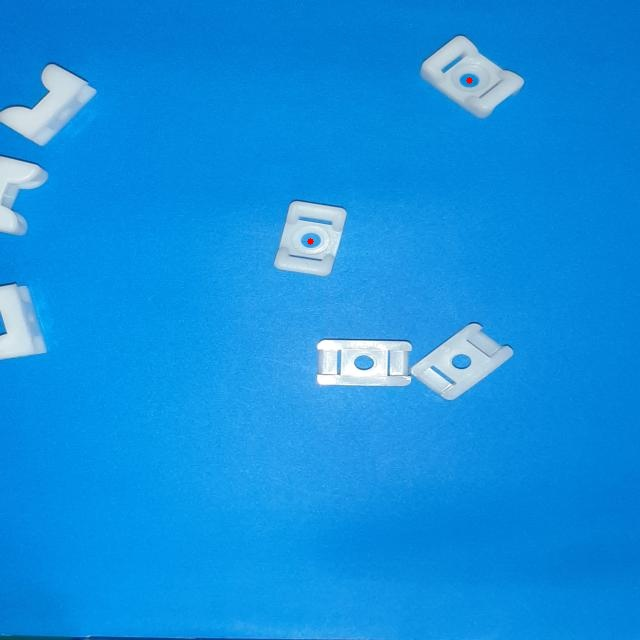
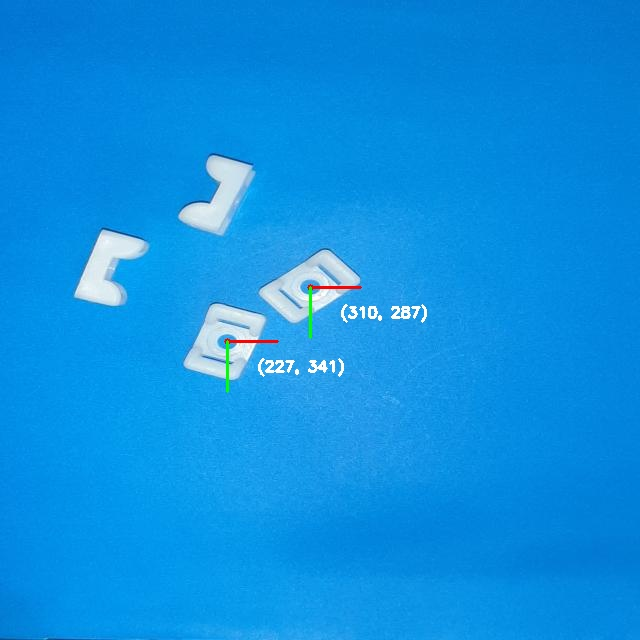
up

diff --git a/detectByYolov8/prediction.py b/detectByYolov8/prediction.py
@@ -4,7 +4,7 @@
 from ultralytics import YOLO
 import cv2
 
-link = r'E:\My_Code\NhanDienvat\detectByYolov8\dataset_specialItems\train\images\20230922_155418_jpg.rf.296522d801c93045bc8ae684fc4fb48f.jpg'
+link = r'E:\My_Code\NhanDienvat\detectByYolov8\dataset_specialItems\train\images\20230922_155058_jpg.rf.f9c8117af8571624c38fa89e5ba3b55c.jpg'
 
 image = cv2.imread(link)
 
@@ -16,7 +16,7 @@ model = YOLO('yolov8n-seg.pt')  # load an official model
 model = YOLO(r'E:\My_Code\NhanDienvat\runs\segment\train\weights\best.pt')  # load a custom model
 
 # Predict with the model
-results = model(r"E:\My_Code\NhanDienvat\detectByYolov8\dataset_specialItems\train\images\20230922_155418_jpg.rf.296522d801c93045bc8ae684fc4fb48f.jpg", save = True)  # predict on an image
+results = model(r"E:\My_Code\NhanDienvat\detectByYolov8\dataset_specialItems\train\images\20230922_155058_jpg.rf.f9c8117af8571624c38fa89e5ba3b55c.jpg", save = True)  # predict on an image
 
 
 myList = []
@@ -25,10 +25,11 @@ mylistmask = []
 
 checkitem = []
 for r in results:
-    mylistmask = r.masks.xy
+    # mylistmask = r.masks.xy #ssử dụng nếu dùng phương pháp tìm tọa độ tâm theo các điểm masks
     # print("mask: ",r.masks[0].xy[0])
-    print("shape: ",r.masks.shape)
-    print(r.boxes)  # print the Boxes object containing the detection bounding boxes
+    # print("shape: ",r.masks.shape)
+    print("masks: ",r.masks)
+    print("boxes: ",r.boxes)  # print the Boxes object containing the detection bounding boxes
     myList = r.boxes.xywh.tolist()
     print(r.boxes.xywh.tolist())
     checkitem = r.boxes.cls.tolist()
@@ -50,7 +51,12 @@ while count < len(checkitem):
     # Kích thước của điểm
     thickness = -1  # Đặt -1 để vẽ một điểm đầy đủ
     # Vẽ điểm trên hình ảnh
-    cv2.circle(image, (int(list[0]),int(list[1])), 3, (0, 0, 255), thickness)
+    cv2.circle(image, (int(list[0]),int(list[1])), 3, (0, 0, 255), thickness) #chấm điểm vào ảnh ở tọa độ tâm của bounding box của lỗ tâm
+    # in tọa độ của tâm
+    text = f"({int(list[0])}, {int(list[1])})"
+    cv2.putText(image, text, (int(list[0])+30,int(list[1])+30), cv2.FONT_HERSHEY_SIMPLEX, 0.5, (255, 255, 255), 2)
+    cv2.line(image, (int(list[0]),int(list[1])), (int(list[0]) + 50, int(list[1])), (0, 0, 255), 2)  # Vẽ trục X (màu đỏ)
+    cv2.line(image, (int(list[0]),int(list[1])), (int(list[0]), int(list[1]) + 50), (0, 255, 0), 2)  # Vẽ trục Y (màu xanh lá)
   count = count + 1
 # print("list masks: ",mylistmask.tolist()[0])
 

diff --git a/detectByYolov8/getLine.py b/detectByYolov8/getLine.py
@@ -1,0 +1,43 @@
+# (1) import the necessary packages
+import argparse
+import imutils
+import cv2
+
+# (2) construct the argument parse and parse the arguments
+ap = argparse.ArgumentParser()
+ap.add_argument("image",  help="path to the input image")
+args = ap.parse_args()
+
+# (3) load the image, convert it to grayscale, blur it slightly,
+# and threshold it
+image = cv2.imread(args.image)
+gray = cv2.cvtColor(image, cv2.COLOR_BGR2GRAY)
+cv2.imwrite('shapes_gray.jpg', gray)
+
+blurred = cv2.GaussianBlur(gray, (5,5), 0)
+cv2.imwrite('shapes_blurred.jpg', blurred)
+
+thresh = cv2.threshold(blurred, 60, 255, cv2.THRESH_BINARY)[1]
+cv2.imwrite('shapes_thresh.jpg', thresh)
+
+# find contours in the thresholded image
+cnts = cv2.findContours(thresh.copy(), cv2.RETR_EXTERNAL,
+	cv2.CHAIN_APPROX_SIMPLE)
+cnts = cnts[0] if imutils.is_cv2() else cnts[1]
+
+# loop over the contours
+for c in cnts:
+	# compute the center of the contour
+	M = cv2.moments(c)
+	cX = int(M["m10"] / M["m00"])
+	cY = int(M["m01"] / M["m00"])
+ 
+	# draw the contour and center of the shape on the image
+	cv2.drawContours(image, [c], -1, (0, 255, 0), 2)
+	cv2.circle(image, (cX, cY), 7, (255, 255, 255), -1)
+	cv2.putText(image, "center", (cX - 20, cY - 20),
+		cv2.FONT_HERSHEY_SIMPLEX, 0.5, (255, 255, 255), 2)
+ 
+	# show the image
+	cv2.imshow("Image", image)
+	cv2.waitKey(0)
